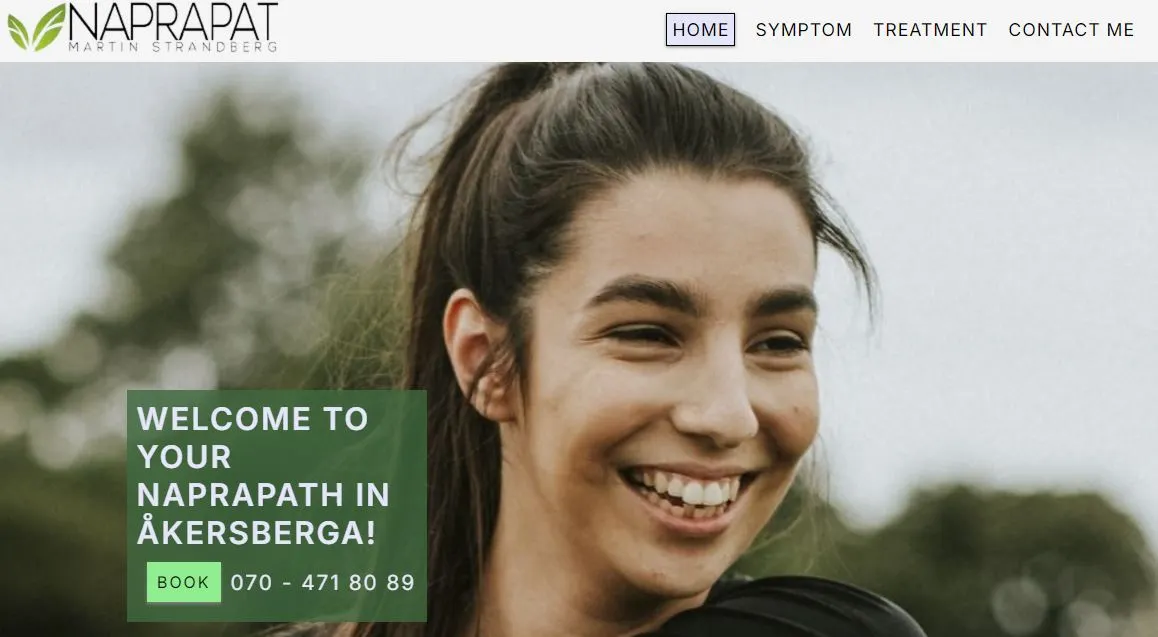
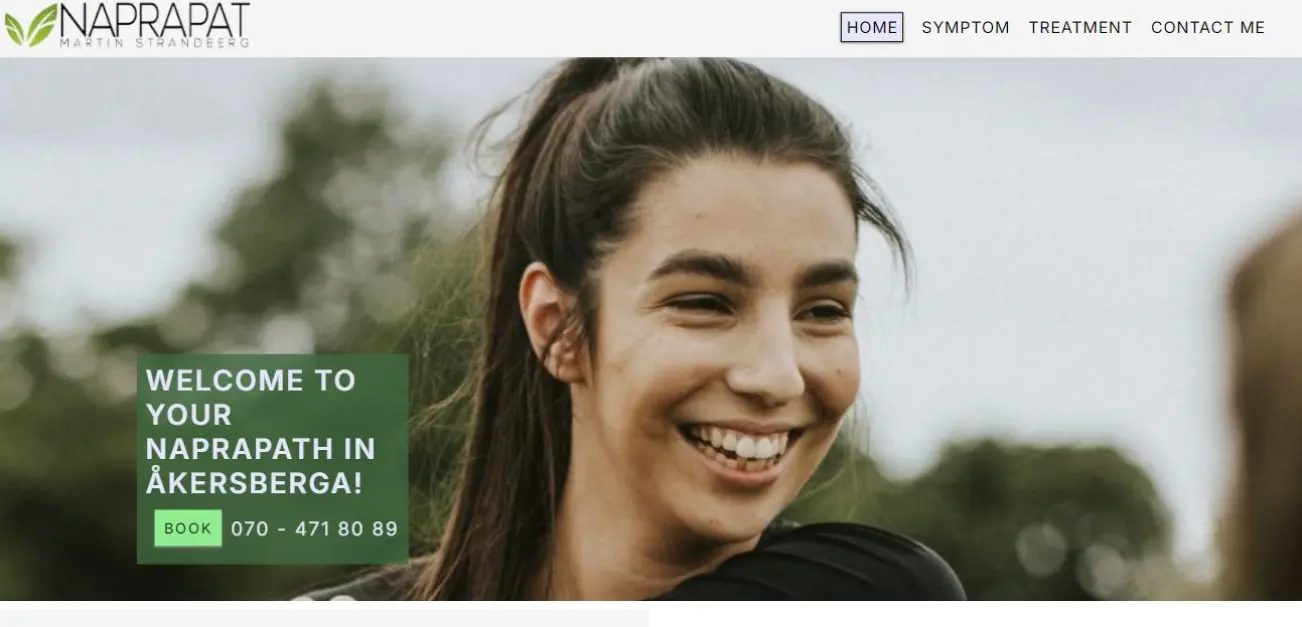
Add responsiveness to about me section

diff --git a/index.html b/index.html
@@ -53,6 +53,7 @@
     </div>
     </section>
     <section id="about_me">
+        <img src="./img/bild_5.webp" class="img_self" alt="Picture of Julius">
         <div class="about_me_text">
             <h2>About Me</h2>
             <p>
@@ -70,21 +71,21 @@
             <br>
             <p>
                 I'm eager to apply my skills in a supportive role where I can continue to grow and contribute to
-                meaningful projects. Let's connect and see how we can collaborate!
+                meaningful projects.
             </p>
             <br>
             <p class="email"><strong><a href="mailto:julius.alamarvdashti@gmail.com" target="_blank"
-                        rel="noopener noreferrer">Send
-                        email</a></strong></p>
+                        rel="noopener noreferrer">Send email</a></strong>
+            </p>
         </div>
-        <img src="./img/bild_5.webp" class="img_self" alt="Picture of Julius">
     </section>
-    <section id="projects">
+    <!-- <section id="projects">
         <div class="slider">
             <div class="slides">
                 <div class="slide">
-                    <img src="./img/strandberg.webp" alt="landing page of strandberg webpage" class="disintegrate">
+                    <img src="./img/strandberg.webp" alt="Image of strandberg website" class="disintegrate">
                     <div class="slide-text">
+                        <h4>Naprapat Martin Strandberg</h4>
                         <p>
                             For this project, I chose to upgrade an existing website. I searched my neighborhood for a
                             business that needed a modernized web presence and found one in need of a refresh.
@@ -110,14 +111,37 @@
                         </div>
                     </div>
                 </div>
-                <div class="slide"><img src="./img/slide2.webp" alt="" class="disintegrate"></div>
-                <div class="slide"><img src="./img/slide3.webp" alt="" class="disintegrate"></div>
+                <div class="slide"><img src="./img/azure-bistro.webp" alt="Image of Azure Bistro website"
+                        class="disintegrate">
+                    <div class="slide-text">
+                        <h4>Azure Bistro</h4>
+                        <br>
+                        <p>
+                            I created a fine dining restaurant website with a booking system built using Django. Users
+                            can create an account, book a table, view and adjust reservations, or delete their account.
+                        </p>
+                        <br>
+                        <p>
+                            Staff members can log in to view and manage all bookings. Administrators have extended
+                            permissions, allowing them to book reservations even on dates and times already booked,
+                            providing flexibility for special circumstances.
+                        </p>
+                        <div class="link-grp">
+                            <a class="btn-link" href="https://azure-bistro-v2-df04593043a2.herokuapp.com/"
+                                target="_blank" rel="noopener noreferrer">My rendition of the website</a>
+                            <a class="btn-link" href="https://github.com/Julius-88/azure-bistro" target="_blank"
+                                rel="noopener noreferrer">Github</a>
+                        </div>
+                    </div>
+                </div>
+                <div class="slide"><img src="./img/ludus-nexus.webp" alt="" class="disintegrate"></div>
             </div>
-            <button class="prev" onclick="changeSlide(-1)">&#10094;</button>
-            <button class="next" onclick="changeSlide(1)">&#10095;</button>
+            <div class="link-grp"></div>
+            <button class="prev" type="button" onclick="changeSlide(-1)">&#10094;</button>
+            <button class="next" type="button" onclick="changeSlide(1)">&#10095;</button>
         </div>
     </section>
-    <footer>Footer</footer>
+    <footer>Footer</footer> -->
     <script src="./script.js"></script>
 </body>
 

diff --git a/global-styles.css b/global-styles.css
@@ -12,6 +12,9 @@
 
 body {
     background: linear-gradient(#A2D2FF, #FFC8DD, #FFAFCC, #CDB4DB, #A2D2FF);
+    height: 100vh;
+    display: flex;
+    flex-direction: column;
 }
 
 /* Navbar */
@@ -137,10 +140,11 @@ nav a:hover {
 
 .introduction {
     margin-top: 10%;
+    text-align: center;
 }
 
 .animated-text {
-    font-size: 3em;
+    font-size: x-large;
     font-weight: bold;
     background: linear-gradient(90deg, #ff6ec4, #7873f5);
     background-clip: text;
@@ -162,6 +166,7 @@ nav a:hover {
         opacity: 0;
         transform: translateY(20px);
     }
+
     100% {
         opacity: 1;
         transform: translateY(0);
@@ -222,7 +227,7 @@ nav a:hover {
     display: flex;
     justify-content: space-around;
     align-items: center;
-    /* background-image: linear-gradient(#FFAFCC, #CDB4DB); */
+    flex-direction: column;
 }
 
 .about_me_text h2 {
@@ -231,13 +236,13 @@ nav a:hover {
 }
 
 .about_me_text {
-    width: 50%;
-    padding: 50px;
+    width: 100%;
+    padding: 30px;
     font-size: larger;
 }
 
 .img_self {
-    width: 50%;
+    width: 100%;
     height: auto;
     margin: 10px;
     box-shadow: 1em .4em 5px #bde0fe, -1em -.3em 5px #ffafcc;
@@ -267,6 +272,7 @@ nav a:hover {
 
 .slide {
     min-width: 100%;
+    width: fit-content;
     height: 500px;
     background-size: contain;
     background-repeat: no-repeat;
@@ -276,19 +282,21 @@ nav a:hover {
     position: relative;
     display: flex;
     align-items: center;
+    flex-direction: column;
 }
 
 .slide img {
-    width: 50%;
+    width: 100%;
     height: 100%;
     object-fit: contain;
     animation: stabilize 1s forwards;
 }
 
 .slide-text {
-    width: 50%;
+    width: 100%;
     padding: 20px;
     text-align: center;
+    font-size: x-small;
 }
 
 button {
@@ -317,6 +325,7 @@ button.next {
         filter: none;
         transform: none;
     }
+
     100% {
         filter: blur(10px);
         transform: translateY(50px);
@@ -330,6 +339,7 @@ button.next {
         transform: translateY(50px);
         opacity: 0;
     }
+
     100% {
         filter: none;
         transform: none;
@@ -350,7 +360,7 @@ button.next {
     background-color: #cdb4db;
     padding: 10px;
     border-radius: 2px;
-    box-shadow: 0 0 10px 2px ;
+    box-shadow: 0 0 10px 2px;
     margin: 10px;
 }
 
@@ -367,17 +377,58 @@ button.next {
     nav ul {
         display: flex;
     }
+
+    #about_me {
+        flex-direction: row;
+    }
+
+    .about_me_text {
+        width: 50%;
+        padding: 50px;
+        font-size: smaller;
+    }
+
+    .img_self {
+        width: 50%;
+    }
+
+    .slide {
+        flex-direction: row;
+    }
+    
+    .slide img {
+        width: 50%;
+    }
+    
+    .slide-text {
+        width: 50%;
+        font-size: large;
+    }
+
+    .animated-text {
+        font-size: xx-large;
+    }
+
 }
 
 @media (min-width: 1024px) {
     .logo {
         max-width: 170px;
     }
+
+    .about_me_text {
+        font-size: medium;
+    }
+   
 }
 
 @media (min-width: 1440px) {
     .logo {
         max-width: 200px;
+    }
+
+    .about_me_text {
+        font-size: x-large;
     }
 }
 
@@ -387,8 +438,12 @@ button.next {
     }
 
     nav,
-    h1,
-    h2 {
-        font-size: 2em;
+    .animated-text,
+    .animated-subtext {
+        font-size: xxx-large;
+    }
+
+    .about_me_text {
+        font-size: xx-large;
     }
 }
